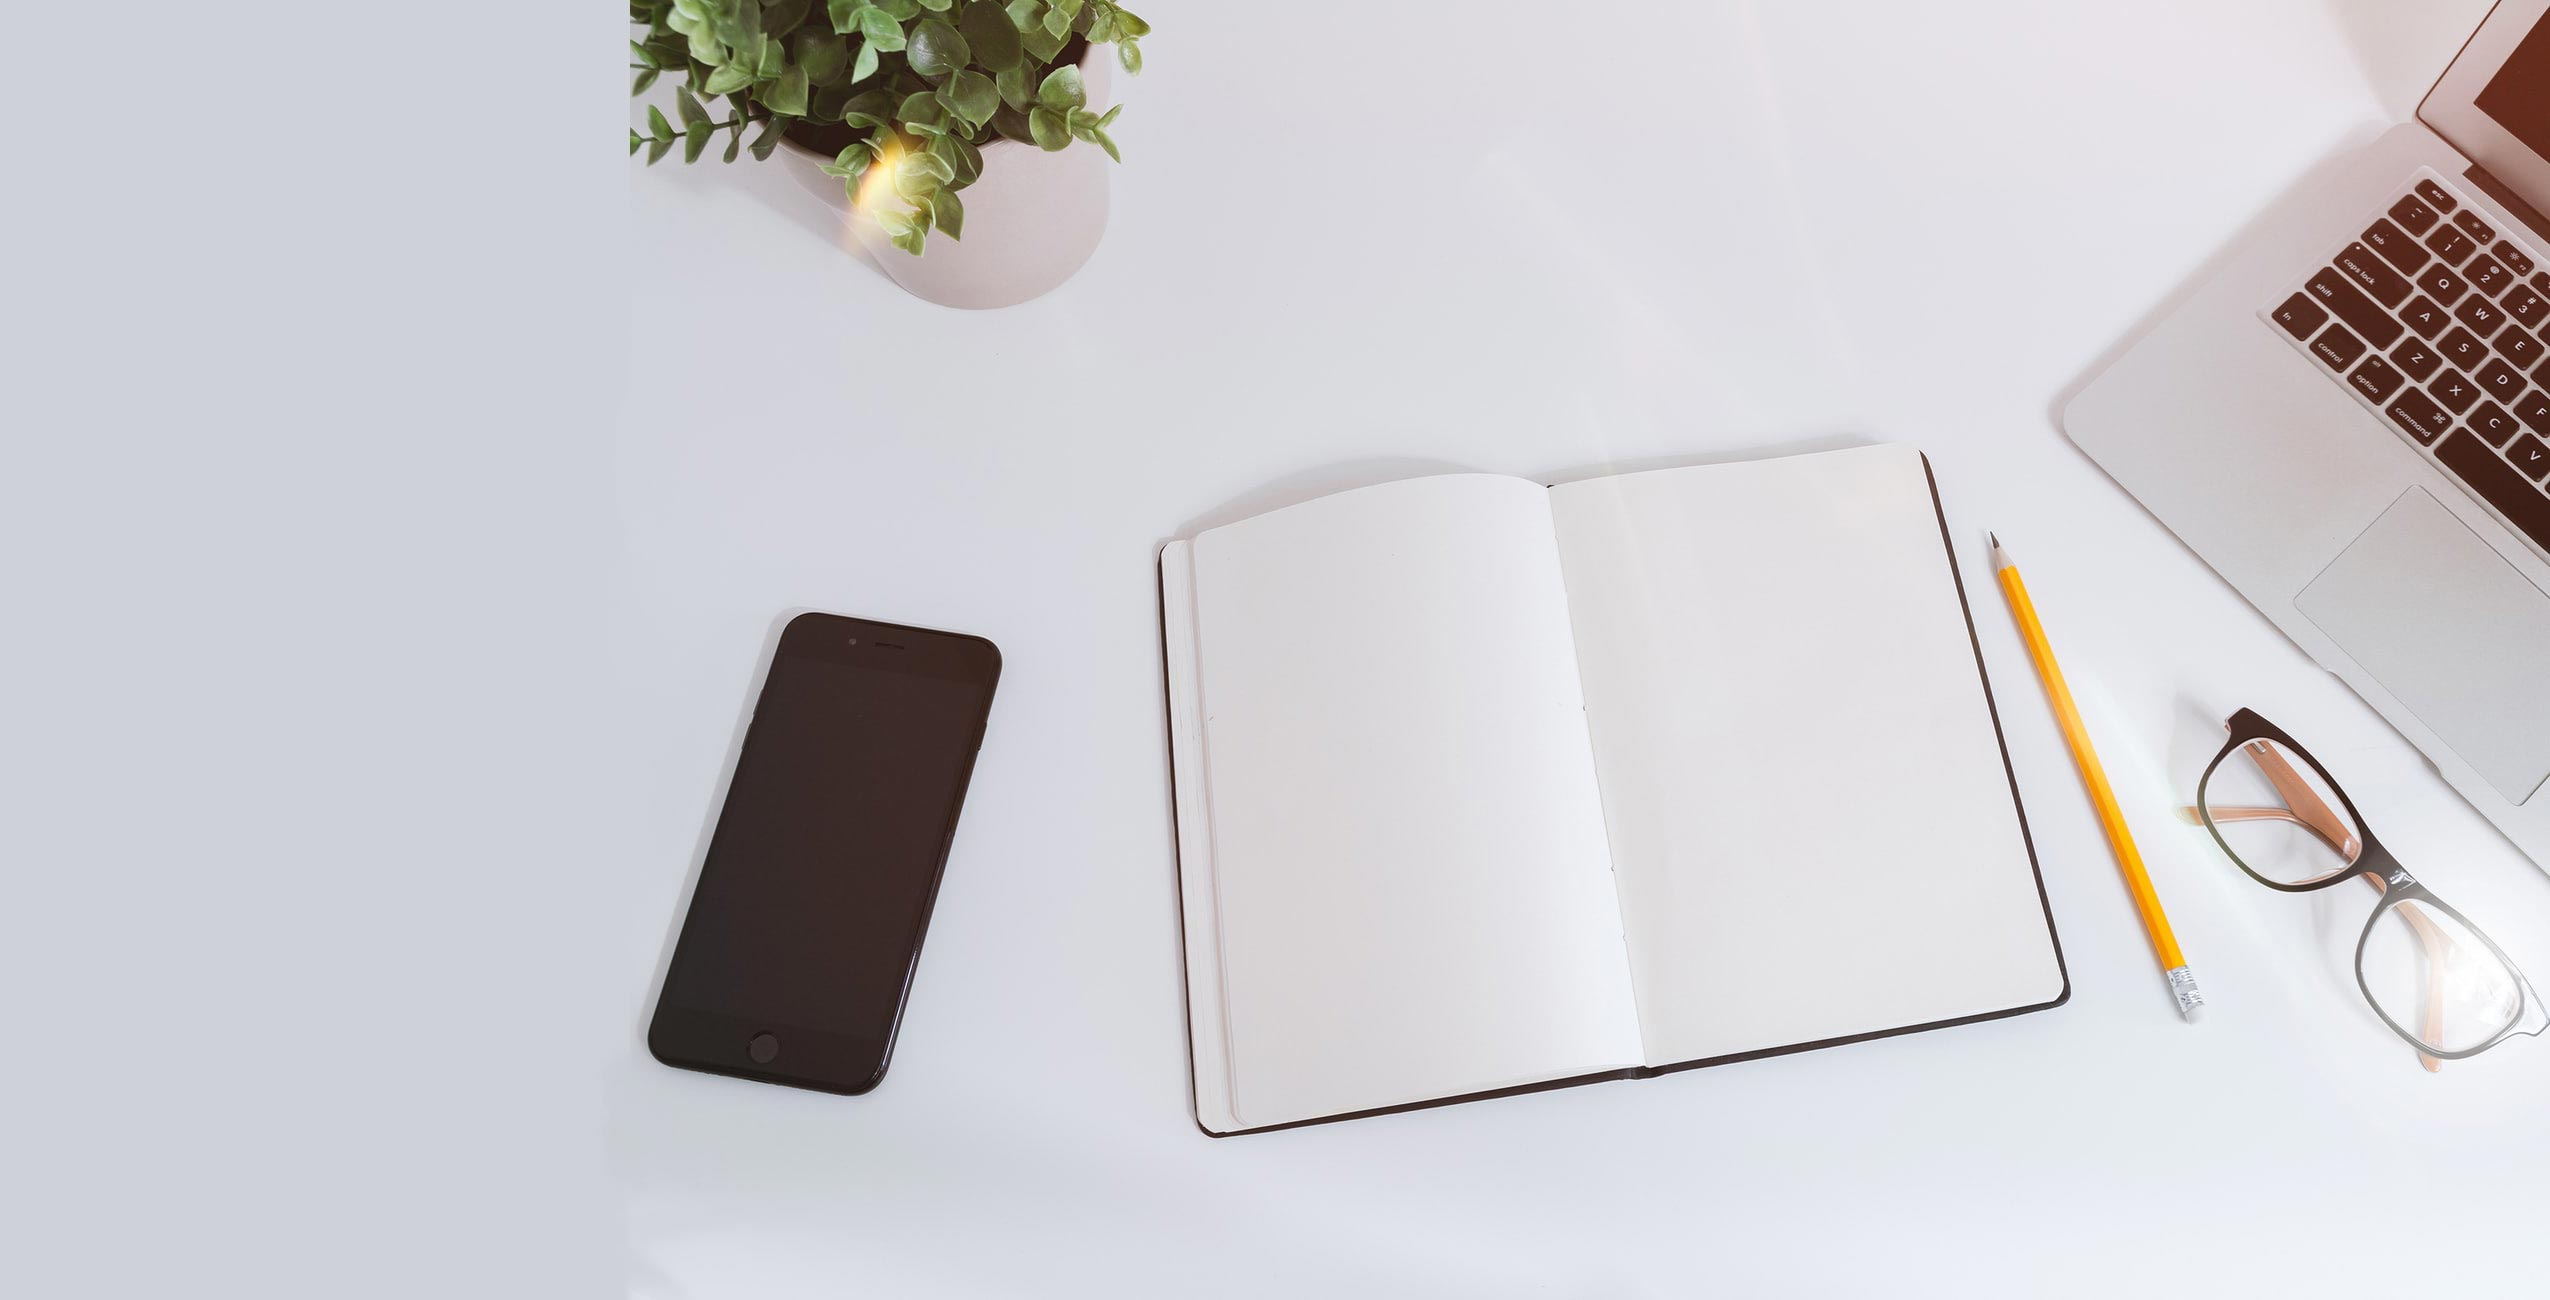
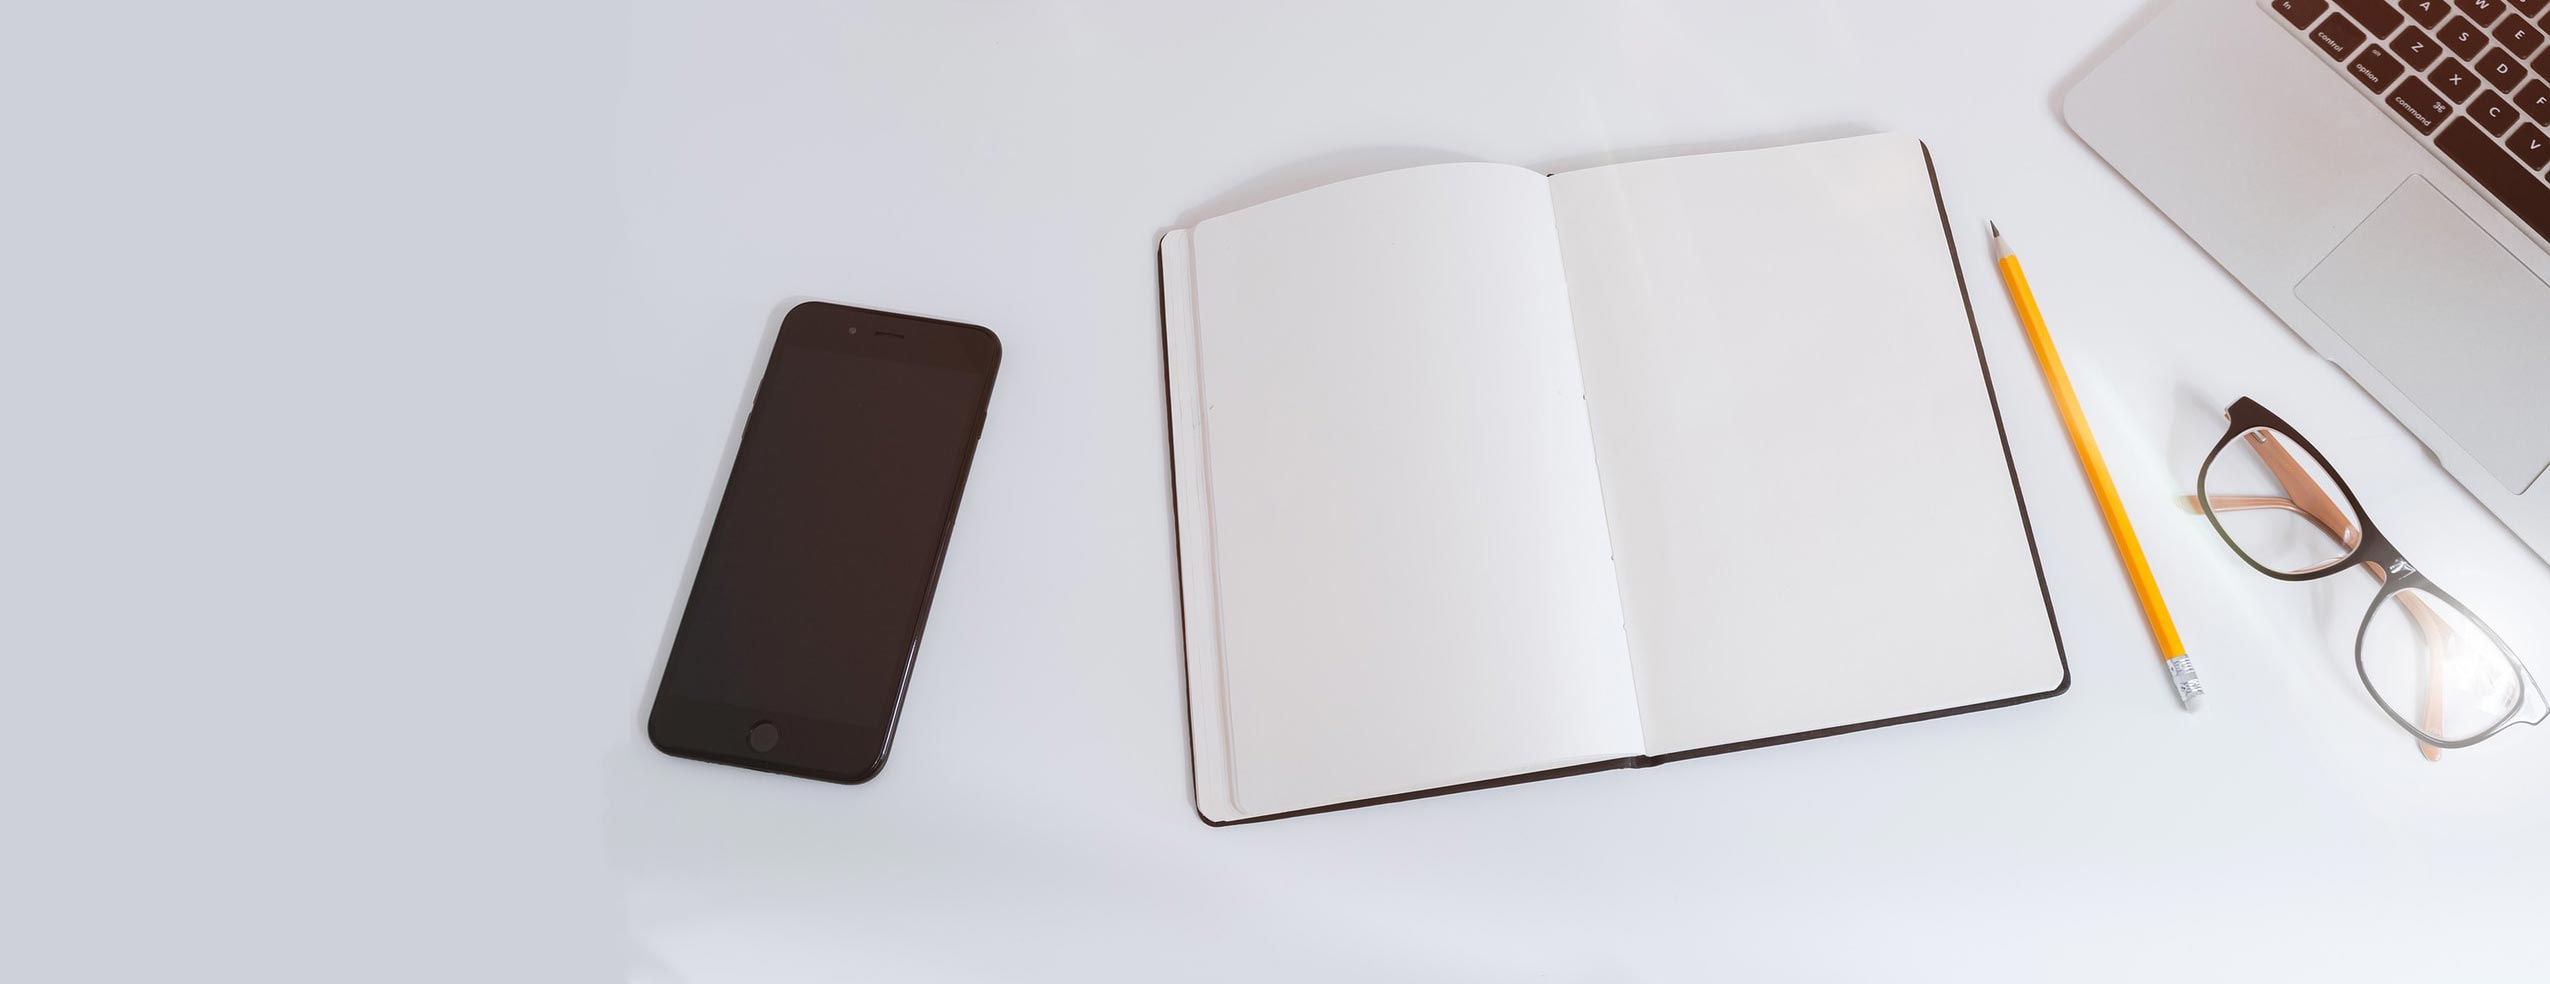
add header

diff --git a/index.html b/index.html
@@ -3,6 +3,6 @@ title: " "
 layout: home
 author_profile: true
 header:
-  overlay_image: "/assets/images/photo-1488998427799-e3362cec87c3.jpg"
+  image: "/assets/images/photo-1488998427799-e3362cec87c3.jpg"
   caption: "Photo credit: [**Unsplash**](https://unsplash.com)"
 ---
